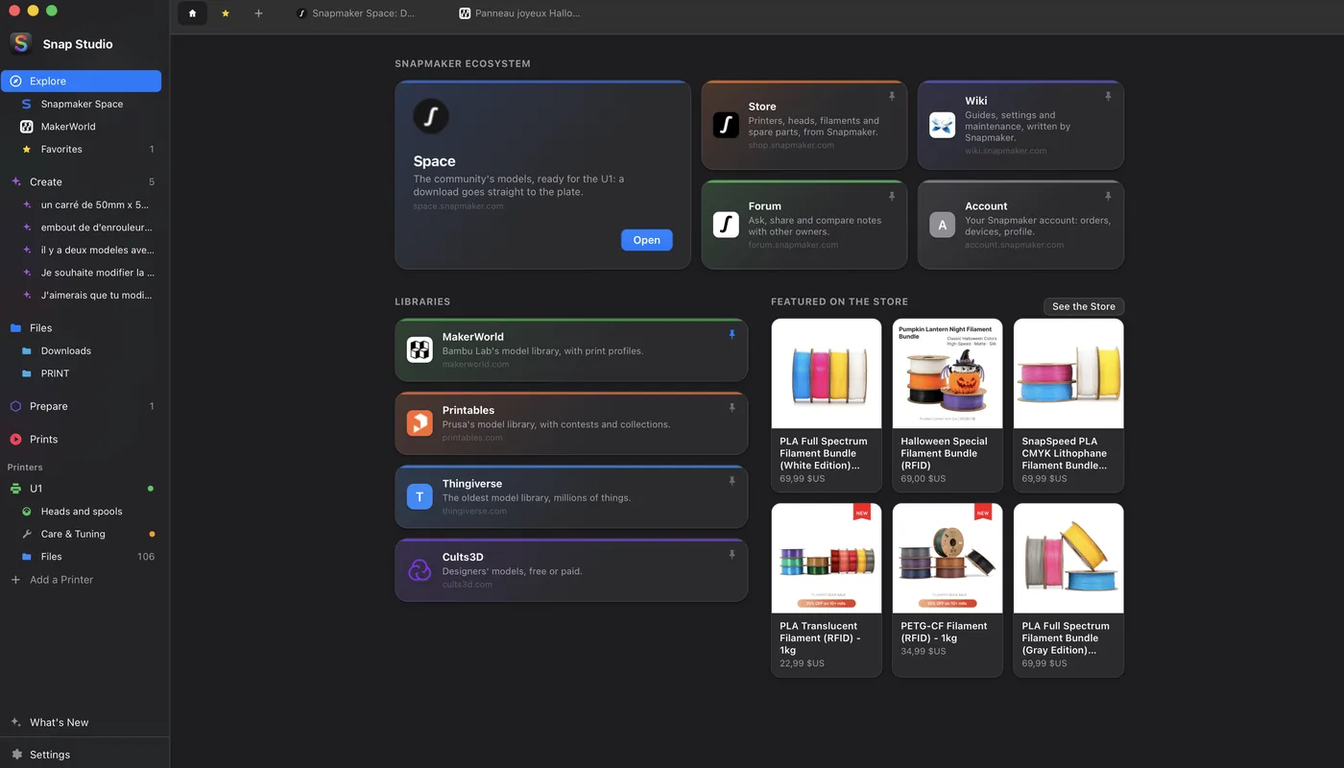
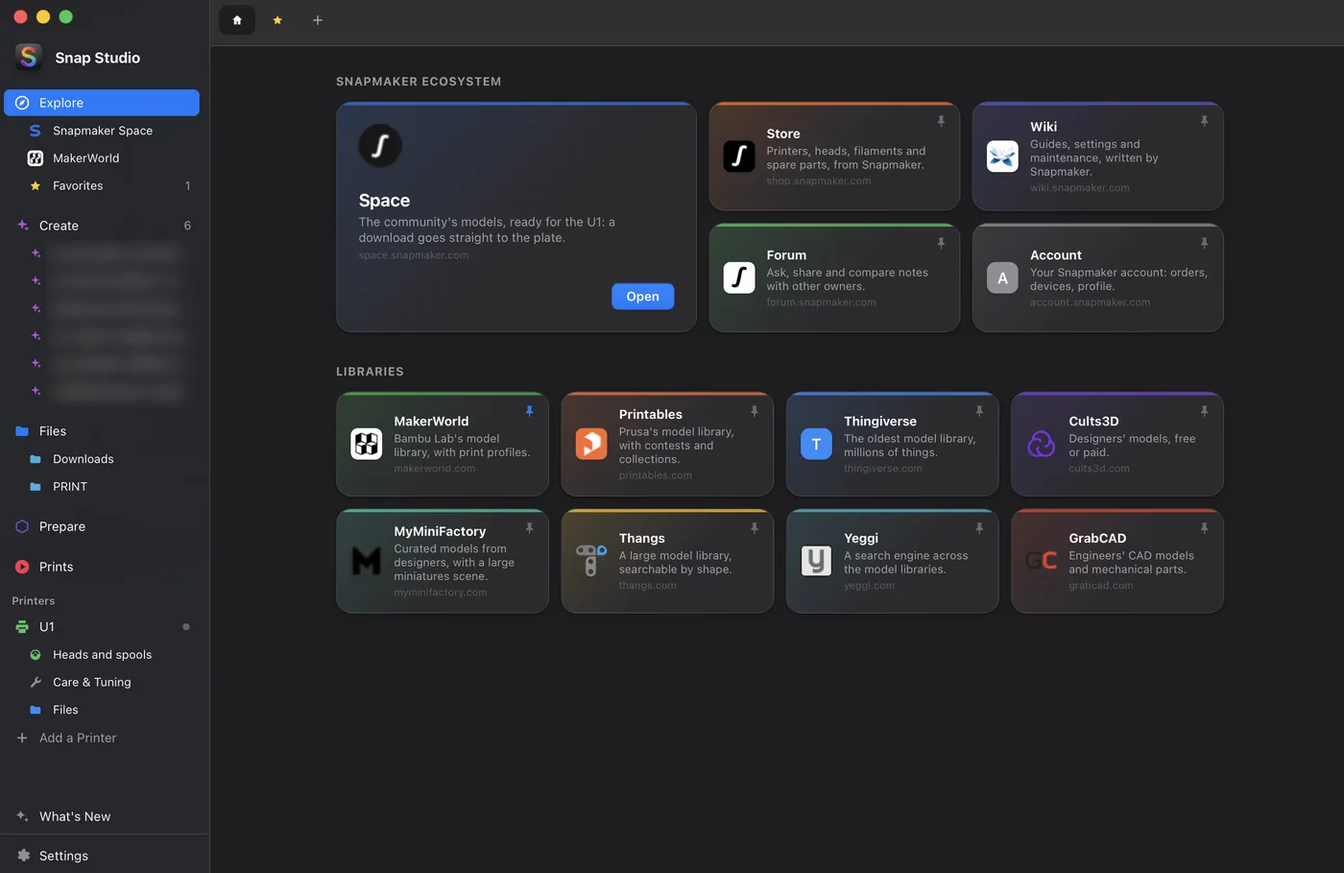
docs: Real 0.17 screenshots: Explore, Prints, G-code preview, languages
From the app (macOS, dark, English), the Create list's conversation titles
blurred and the labels on the printer's frame blurred in the camera image.

- library.png: Explore with the eight libraries and no Store block;
- print-job.png: the Prints page with a running print and its camera;
- print-history.png (new): a finished print's record (gallery only);
- gcode-preview.png (new): the G-code preview window;
- languages.png (new): Settings > Application, the language picker open.

The README gets a G-code preview section and a Languages section (English
and French). The site's gallery goes from 12 to 15 slides (finished print,
G-code preview, languages) with captions in English and French, and the
slicing card mentions the preview. In What's new, the languages feature
shows the real picker instead of the illustration, and the one camera
feature a crop of the running print's record (one-camera.webp).

diff --git a/site/index.html b/site/index.html
@@ -51,7 +51,7 @@
         <article class="feature">
           <span class="ico" aria-hidden="true">✂</span>
           <h3 data-i18n="f.slice.title">Orca-style slicing</h3>
-          <p data-i18n="f.slice.text">The Snapmaker Orca engine is downloaded once and kept up to date: no need to install Orca. Quality, infill, walls, surfaces, supports, brim and seam, with styles chosen from pictures, which you can save as your own profiles. Basic or Advanced settings. The prime tower shows on the plate in Prepare, where you place it, or one per material when materials do not bond.</p>
+          <p data-i18n="f.slice.text">The Snapmaker Orca engine is downloaded once and kept up to date: no need to install Orca. Quality, infill, walls, surfaces, supports, brim and seam, with styles chosen from pictures, which you can save as your own profiles. Basic or Advanced settings. The prime tower shows on the plate in Prepare, where you place it, or one per material when materials do not bond. Then a G-code preview, layer by layer, with the time per type and the filament, before sending.</p>
         </article>
         <article class="feature">
           <span class="ico" aria-hidden="true">🎨</span>
@@ -81,84 +81,102 @@
       <section class="gallery" id="gallery" aria-roledescription="carousel" data-i18n-roledesc="gal.role" aria-label="Snap Studio screenshots" data-i18n-aria="gal.label" tabindex="0">
         <div class="g-stage">
           <div class="g-track" aria-live="polite">
-          <figure class="g-slide is-active" role="group" aria-roledescription="slide" data-i18n-roledesc="gal.slide_role" aria-label="1 / 12" data-index="0">
+          <figure class="g-slide is-active" role="group" aria-roledescription="slide" data-i18n-roledesc="gal.slide_role" aria-label="1 / 15" data-index="0">
             <button type="button" class="g-open" data-open="0" aria-label="Open fullscreen: Your printer in 3D: click a spool, a head, the bed or the light to control it" data-cap="shots.printer" tabindex="0">
               <img src="assets/printer.webp" alt="The printer&#x27;s page: the U1 in 3D and its spools" data-i18n-alt="shots.printer_alt" width="1400" height="807">
             </button>
             <figcaption><span class="g-cap" data-i18n="shots.printer">Your printer in 3D: click a spool, a head, the bed or the light to control it</span></figcaption>
           </figure>
-          <figure class="g-slide" role="group" aria-roledescription="slide" data-i18n-roledesc="gal.slide_role" aria-label="2 / 12" data-index="1" aria-hidden="true">
+          <figure class="g-slide" role="group" aria-roledescription="slide" data-i18n-roledesc="gal.slide_role" aria-label="2 / 15" data-index="1" aria-hidden="true">
             <button type="button" class="g-open" data-open="1" aria-label="Open fullscreen: Control: move, heat, load and unload each head, fans and light, without G-code" data-cap="shots.control" tabindex="-1">
               <img src="assets/control.webp" alt="Care &amp; Tuning › Control" data-i18n-alt="shots.control_alt" width="1400" height="799">
             </button>
             <figcaption><span class="g-cap" data-i18n="shots.control">Control: move, heat, load and unload each head, fans and light, without G-code</span></figcaption>
           </figure>
-          <figure class="g-slide" role="group" aria-roledescription="slide" data-i18n-roledesc="gal.slide_role" aria-label="3 / 12" data-index="2" aria-hidden="true">
+          <figure class="g-slide" role="group" aria-roledescription="slide" data-i18n-roledesc="gal.slide_role" aria-label="3 / 15" data-index="2" aria-hidden="true">
             <button type="button" class="g-open" data-open="2" aria-label="Open fullscreen: Files: thumbnails of your 3MF files, duration, filament and plates" data-cap="shots.files" tabindex="-1">
               <img src="assets/files.webp" alt="Snap Studio — your 3MF files at a glance" data-i18n-alt="shots.files_alt" width="1400" height="801" loading="lazy">
             </button>
             <figcaption><span class="g-cap" data-i18n="shots.files">Files: thumbnails of your 3MF files, duration, filament and plates</span></figcaption>
           </figure>
-          <figure class="g-slide" role="group" aria-roledescription="slide" data-i18n-roledesc="gal.slide_role" aria-label="4 / 12" data-index="3" aria-hidden="true">
+          <figure class="g-slide" role="group" aria-roledescription="slide" data-i18n-roledesc="gal.slide_role" aria-label="4 / 15" data-index="3" aria-hidden="true">
             <button type="button" class="g-open" data-open="3" aria-label="Open fullscreen: Prepare: the U1 plate in 3D, each color sent to its head, and one prime tower per material" data-cap="shots.prepare" tabindex="-1">
               <img src="assets/prepare.webp" alt="Prepare" data-i18n-alt="shots.prepare_alt" width="1400" height="914" loading="lazy">
             </button>
             <figcaption><span class="g-cap" data-i18n="shots.prepare">Prepare: the U1 plate in 3D, each color sent to its head, and one prime tower per material</span></figcaption>
           </figure>
-          <figure class="g-slide" role="group" aria-roledescription="slide" data-i18n-roledesc="gal.slide_role" aria-label="5 / 12" data-index="4" aria-hidden="true">
+          <figure class="g-slide" role="group" aria-roledescription="slide" data-i18n-roledesc="gal.slide_role" aria-label="5 / 15" data-index="4" aria-hidden="true">
             <button type="button" class="g-open" data-open="4" aria-label="Open fullscreen: AI: Claude models a part, with a live 3D preview" data-cap="shots.ai-chat" tabindex="-1">
               <img src="assets/ai-chat.webp" alt="An AI conversation" data-i18n-alt="shots.ai-chat_alt" width="1400" height="794" loading="lazy">
             </button>
             <figcaption><span class="g-cap" data-i18n="shots.ai-chat">AI: Claude models a part, with a live 3D preview</span></figcaption>
           </figure>
-          <figure class="g-slide" role="group" aria-roledescription="slide" data-i18n-roledesc="gal.slide_role" aria-label="6 / 12" data-index="5" aria-hidden="true">
+          <figure class="g-slide" role="group" aria-roledescription="slide" data-i18n-roledesc="gal.slide_role" aria-label="6 / 15" data-index="5" aria-hidden="true">
             <button type="button" class="g-open" data-open="5" aria-label="Open fullscreen: Camera: one live camera for the app, pinned in a corner" data-cap="shots.printer-camera" tabindex="-1">
               <img src="assets/printer-camera.webp" alt="The printer&#x27;s camera" data-i18n-alt="shots.printer-camera_alt" width="1400" height="668" loading="lazy">
             </button>
             <figcaption><span class="g-cap" data-i18n="shots.printer-camera">Camera: one live camera for the app, pinned in a corner</span></figcaption>
           </figure>
-          <figure class="g-slide" role="group" aria-roledescription="slide" data-i18n-roledesc="gal.slide_role" aria-label="7 / 12" data-index="6" aria-hidden="true">
+          <figure class="g-slide" role="group" aria-roledescription="slide" data-i18n-roledesc="gal.slide_role" aria-label="7 / 15" data-index="6" aria-hidden="true">
             <button type="button" class="g-open" data-open="6" aria-label="Open fullscreen: Prints: every print by day, and its record: camera, timelapse, result" data-cap="shots.print-job" tabindex="-1">
-              <img src="assets/print-job.webp" alt="The Prints page: the list and a print&#x27;s record" data-i18n-alt="shots.print-job_alt" width="1400" height="824" loading="lazy">
+              <img src="assets/print-job.webp" alt="The Prints page: the list and a print&#x27;s record" data-i18n-alt="shots.print-job_alt" width="1400" height="909" loading="lazy">
             </button>
             <figcaption><span class="g-cap" data-i18n="shots.print-job">Prints: every print by day, and its record: camera, timelapse, result</span></figcaption>
           </figure>
-          <figure class="g-slide" role="group" aria-roledescription="slide" data-i18n-roledesc="gal.slide_role" aria-label="8 / 12" data-index="7" aria-hidden="true">
-            <button type="button" class="g-open" data-open="7" aria-label="Open fullscreen: A printer&#x27;s files: print files and timelapses, read live" data-cap="shots.printer-files" tabindex="-1">
+          <figure class="g-slide" role="group" aria-roledescription="slide" data-i18n-roledesc="gal.slide_role" aria-label="8 / 15" data-index="7" aria-hidden="true">
+            <button type="button" class="g-open" data-open="7" aria-label="Open fullscreen: Prints: a finished print, its result, filament, timeline and times" data-cap="shots.print-history" tabindex="-1">
+              <img src="assets/print-history.webp" alt="A finished print&#x27;s record in Prints" data-i18n-alt="shots.print-history_alt" width="1400" height="909" loading="lazy">
+            </button>
+            <figcaption><span class="g-cap" data-i18n="shots.print-history">Prints: a finished print, its result, filament, timeline and times</span></figcaption>
+          </figure>
+          <figure class="g-slide" role="group" aria-roledescription="slide" data-i18n-roledesc="gal.slide_role" aria-label="9 / 15" data-index="8" aria-hidden="true">
+            <button type="button" class="g-open" data-open="8" aria-label="Open fullscreen: A printer&#x27;s files: print files and timelapses, read live" data-cap="shots.printer-files" tabindex="-1">
               <img src="assets/printer-files.webp" alt="A printer&#x27;s files" data-i18n-alt="shots.printer-files_alt" width="1400" height="798" loading="lazy">
             </button>
             <figcaption><span class="g-cap" data-i18n="shots.printer-files">A printer&#x27;s files: print files and timelapses, read live</span></figcaption>
           </figure>
-          <figure class="g-slide" role="group" aria-roledescription="slide" data-i18n-roledesc="gal.slide_role" aria-label="9 / 12" data-index="8" aria-hidden="true">
-            <button type="button" class="g-open" data-open="8" aria-label="Open fullscreen: Explore home: Space, Store, Wiki, Forum, Account and eight model libraries" data-cap="shots.library" tabindex="-1">
-              <img src="assets/library.webp" alt="Explore home: Snapmaker Space, Store, Wiki, Forum, Account and eight model libraries" data-i18n-alt="shots.library_alt" width="1400" height="800" loading="lazy">
+          <figure class="g-slide" role="group" aria-roledescription="slide" data-i18n-roledesc="gal.slide_role" aria-label="10 / 15" data-index="9" aria-hidden="true">
+            <button type="button" class="g-open" data-open="9" aria-label="Open fullscreen: Explore home: Space, Store, Wiki, Forum, Account and eight model libraries" data-cap="shots.library" tabindex="-1">
+              <img src="assets/library.webp" alt="Explore home: Snapmaker Space, Store, Wiki, Forum, Account and eight model libraries" data-i18n-alt="shots.library_alt" width="1400" height="909" loading="lazy">
             </button>
             <figcaption><span class="g-cap" data-i18n="shots.library">Explore home: Space, Store, Wiki, Forum, Account and eight model libraries</span></figcaption>
           </figure>
-          <figure class="g-slide" role="group" aria-roledescription="slide" data-i18n-roledesc="gal.slide_role" aria-label="10 / 12" data-index="9" aria-hidden="true">
-            <button type="button" class="g-open" data-open="9" aria-label="Open fullscreen: Care &amp; Tuning: maintenance tasks, the heads&#x27; counters, the bed&#x27;s leveling" data-cap="shots.maintenance" tabindex="-1">
+          <figure class="g-slide" role="group" aria-roledescription="slide" data-i18n-roledesc="gal.slide_role" aria-label="11 / 15" data-index="10" aria-hidden="true">
+            <button type="button" class="g-open" data-open="10" aria-label="Open fullscreen: Care &amp; Tuning: maintenance tasks, the heads&#x27; counters, the bed&#x27;s leveling" data-cap="shots.maintenance" tabindex="-1">
               <img src="assets/maintenance.webp" alt="Care &amp; Tuning" data-i18n-alt="shots.maintenance_alt" width="1400" height="803" loading="lazy">
             </button>
             <figcaption><span class="g-cap" data-i18n="shots.maintenance">Care &amp; Tuning: maintenance tasks, the heads&#x27; counters, the bed&#x27;s leveling</span></figcaption>
           </figure>
-          <figure class="g-slide" role="group" aria-roledescription="slide" data-i18n-roledesc="gal.slide_role" aria-label="11 / 12" data-index="10" aria-hidden="true">
-            <button type="button" class="g-open" data-open="10" aria-label="Open fullscreen: Display: light or dark, ten themes and the accent color" data-cap="shots.display" tabindex="-1">
+          <figure class="g-slide" role="group" aria-roledescription="slide" data-i18n-roledesc="gal.slide_role" aria-label="12 / 15" data-index="11" aria-hidden="true">
+            <button type="button" class="g-open" data-open="11" aria-label="Open fullscreen: Display: light or dark, ten themes and the accent color" data-cap="shots.display" tabindex="-1">
               <img src="assets/display.webp" alt="Settings › Display" data-i18n-alt="shots.display_alt" width="1400" height="805" loading="lazy">
             </button>
             <figcaption><span class="g-cap" data-i18n="shots.display">Display: light or dark, ten themes and the accent color</span></figcaption>
           </figure>
-          <figure class="g-slide" role="group" aria-roledescription="slide" data-i18n-roledesc="gal.slide_role" aria-label="12 / 12" data-index="11" aria-hidden="true">
-            <button type="button" class="g-open" data-open="11" aria-label="Open fullscreen: Slicing: plate, quality, heads and spools read from the printer" data-cap="shots.slicing" tabindex="-1">
+          <figure class="g-slide" role="group" aria-roledescription="slide" data-i18n-roledesc="gal.slide_role" aria-label="13 / 15" data-index="12" aria-hidden="true">
+            <button type="button" class="g-open" data-open="12" aria-label="Open fullscreen: Slicing: plate, quality, heads and spools read from the printer" data-cap="shots.slicing" tabindex="-1">
               <img src="assets/slicing.webp" alt="The slice sheet" data-i18n-alt="shots.slicing_alt" width="937" height="869" loading="lazy">
             </button>
             <figcaption><span class="g-cap" data-i18n="shots.slicing">Slicing: plate, quality, heads and spools read from the printer</span></figcaption>
+          </figure>
+          <figure class="g-slide" role="group" aria-roledescription="slide" data-i18n-roledesc="gal.slide_role" aria-label="14 / 15" data-index="13" aria-hidden="true">
+            <button type="button" class="g-open" data-open="13" aria-label="Open fullscreen: G-code preview: layer by layer, time per type, filament, then Send to Printer" data-cap="shots.gcode-preview" tabindex="-1">
+              <img src="assets/gcode-preview.webp" alt="The G-code preview with its layer slider" data-i18n-alt="shots.gcode-preview_alt" width="1400" height="909" loading="lazy">
+            </button>
+            <figcaption><span class="g-cap" data-i18n="shots.gcode-preview">G-code preview: layer by layer, time per type, filament, then Send to Printer</span></figcaption>
+          </figure>
+          <figure class="g-slide" role="group" aria-roledescription="slide" data-i18n-roledesc="gal.slide_role" aria-label="15 / 15" data-index="14" aria-hidden="true">
+            <button type="button" class="g-open" data-open="14" aria-label="Open fullscreen: Nine languages, chosen in Settings › Application" data-cap="shots.languages" tabindex="-1">
+              <img src="assets/languages.webp" alt="The language picker in Settings › Application" data-i18n-alt="shots.languages_alt" width="1400" height="762" loading="lazy">
+            </button>
+            <figcaption><span class="g-cap" data-i18n="shots.languages">Nine languages, chosen in Settings › Application</span></figcaption>
           </figure>
           </div>
           <button type="button" class="g-nav g-prev" aria-label="Previous screenshot" data-i18n-aria="gal.prev"><svg viewBox="0 0 24 24" aria-hidden="true" focusable="false"><path d="M15 5l-7 7 7 7"/></svg></button>
           <button type="button" class="g-nav g-next" aria-label="Next screenshot" data-i18n-aria="gal.next"><svg viewBox="0 0 24 24" aria-hidden="true" focusable="false"><path d="M9 5l7 7-7 7"/></svg></button>
         </div>
         <div class="g-bar">
-          <span class="g-count" aria-hidden="true"><b id="g-cur">1</b> / 12</span>
+          <span class="g-count" aria-hidden="true"><b id="g-cur">1</b> / 15</span>
           <button type="button" class="g-play" id="g-play" aria-pressed="false" aria-label="Pause the slideshow" data-i18n-aria="gal.pause"><svg class="i-pause" viewBox="0 0 24 24" aria-hidden="true" focusable="false"><path d="M8 5v14M16 5v14"/></svg><svg class="i-play" viewBox="0 0 24 24" aria-hidden="true" focusable="false"><path d="M8 5l11 7-11 7z"/></svg></button>
         </div>
         <div class="g-thumbs" id="g-thumbs">
@@ -168,12 +186,15 @@
         <button type="button" class="g-thumb" data-go="3" aria-label="Prepare: the U1 plate in 3D, each color sent to its head, and one prime tower per material" data-cap="shots.prepare"><img src="assets/thumbs/prepare.webp" alt="" width="160" height="104" loading="lazy"></button>
         <button type="button" class="g-thumb" data-go="4" aria-label="AI: Claude models a part, with a live 3D preview" data-cap="shots.ai-chat"><img src="assets/thumbs/ai-chat.webp" alt="" width="160" height="91" loading="lazy"></button>
         <button type="button" class="g-thumb" data-go="5" aria-label="Camera: one live camera for the app, pinned in a corner" data-cap="shots.printer-camera"><img src="assets/thumbs/printer-camera.webp" alt="" width="160" height="76" loading="lazy"></button>
-        <button type="button" class="g-thumb" data-go="6" aria-label="Prints: every print by day, and its record: camera, timelapse, result" data-cap="shots.print-job"><img src="assets/thumbs/print-job.webp" alt="" width="160" height="94" loading="lazy"></button>
-        <button type="button" class="g-thumb" data-go="7" aria-label="A printer&#x27;s files: print files and timelapses, read live" data-cap="shots.printer-files"><img src="assets/thumbs/printer-files.webp" alt="" width="160" height="91" loading="lazy"></button>
-        <button type="button" class="g-thumb" data-go="8" aria-label="Explore home: Space, Store, Wiki, Forum, Account and eight model libraries" data-cap="shots.library"><img src="assets/thumbs/library.webp" alt="" width="160" height="91" loading="lazy"></button>
-        <button type="button" class="g-thumb" data-go="9" aria-label="Care &amp; Tuning: maintenance tasks, the heads&#x27; counters, the bed&#x27;s leveling" data-cap="shots.maintenance"><img src="assets/thumbs/maintenance.webp" alt="" width="160" height="92" loading="lazy"></button>
-        <button type="button" class="g-thumb" data-go="10" aria-label="Display: light or dark, ten themes and the accent color" data-cap="shots.display"><img src="assets/thumbs/display.webp" alt="" width="160" height="92" loading="lazy"></button>
-        <button type="button" class="g-thumb" data-go="11" aria-label="Slicing: plate, quality, heads and spools read from the printer" data-cap="shots.slicing"><img src="assets/thumbs/slicing.webp" alt="" width="160" height="148" loading="lazy"></button>
+        <button type="button" class="g-thumb" data-go="6" aria-label="Prints: every print by day, and its record: camera, timelapse, result" data-cap="shots.print-job"><img src="assets/thumbs/print-job.webp" alt="" width="160" height="104" loading="lazy"></button>
+        <button type="button" class="g-thumb" data-go="7" aria-label="Prints: a finished print, its result, filament, timeline and times" data-cap="shots.print-history"><img src="assets/thumbs/print-history.webp" alt="" width="160" height="104" loading="lazy"></button>
+        <button type="button" class="g-thumb" data-go="8" aria-label="A printer&#x27;s files: print files and timelapses, read live" data-cap="shots.printer-files"><img src="assets/thumbs/printer-files.webp" alt="" width="160" height="91" loading="lazy"></button>
+        <button type="button" class="g-thumb" data-go="9" aria-label="Explore home: Space, Store, Wiki, Forum, Account and eight model libraries" data-cap="shots.library"><img src="assets/thumbs/library.webp" alt="" width="160" height="104" loading="lazy"></button>
+        <button type="button" class="g-thumb" data-go="10" aria-label="Care &amp; Tuning: maintenance tasks, the heads&#x27; counters, the bed&#x27;s leveling" data-cap="shots.maintenance"><img src="assets/thumbs/maintenance.webp" alt="" width="160" height="92" loading="lazy"></button>
+        <button type="button" class="g-thumb" data-go="11" aria-label="Display: light or dark, ten themes and the accent color" data-cap="shots.display"><img src="assets/thumbs/display.webp" alt="" width="160" height="92" loading="lazy"></button>
+        <button type="button" class="g-thumb" data-go="12" aria-label="Slicing: plate, quality, heads and spools read from the printer" data-cap="shots.slicing"><img src="assets/thumbs/slicing.webp" alt="" width="160" height="148" loading="lazy"></button>
+        <button type="button" class="g-thumb" data-go="13" aria-label="G-code preview: layer by layer, time per type, filament, then Send to Printer" data-cap="shots.gcode-preview"><img src="assets/thumbs/gcode-preview.webp" alt="" width="160" height="104" loading="lazy"></button>
+        <button type="button" class="g-thumb" data-go="14" aria-label="Nine languages, chosen in Settings › Application" data-cap="shots.languages"><img src="assets/thumbs/languages.webp" alt="" width="160" height="87" loading="lazy"></button>
           <span class="g-ind" aria-hidden="true"></span>
         </div>
       </section>

diff --git a/site/i18n.js b/site/i18n.js
@@ -16,7 +16,7 @@ const STRINGS = {
     "f.u1.title": "Made for the Snapmaker U1",
     "f.u1.text": "The U1 plate, profiles and four heads are built in. Printers are found on your network and the U1 is shown in 3D: click a spool, a head, the bed or the light for its quick controls. Status and sending also work with any Klipper (Moonraker) printer.",
     "f.slice.title": "Orca-style slicing",
-    "f.slice.text": "The Snapmaker Orca engine is downloaded once and kept up to date: no need to install Orca. Quality, infill, walls, surfaces, supports, brim and seam, with styles chosen from pictures, which you can save as your own profiles. Basic or Advanced settings. The prime tower shows on the plate in Prepare, where you place it, or one per material when materials do not bond.",
+    "f.slice.text": "The Snapmaker Orca engine is downloaded once and kept up to date: no need to install Orca. Quality, infill, walls, surfaces, supports, brim and seam, with styles chosen from pictures, which you can save as your own profiles. Basic or Advanced settings. The prime tower shows on the plate in Prepare, where you place it, or one per material when materials do not bond. Then a G-code preview, layer by layer, with the time per type and the filament, before sending.",
     "f.heads.title": "Multi-color, head by head",
     "f.heads.text": "The spools loaded on the printer are read. Each color of a model, painted ones included, goes to the head you pick, and the 3D view shows the real spool colors. Virtual heads mix two spools into a new color, as Full Spectrum does.",
     "f.live.title": "Live printer monitoring",
@@ -49,12 +49,18 @@ const STRINGS = {
     "shots.printer-camera_alt": "The printer's camera",
     "shots.print-job": "Prints: every print by day, and its record: camera, timelapse, result",
     "shots.print-job_alt": "The Prints page: the list and a print's record",
+    "shots.print-history": "Prints: a finished print, its result, filament, timeline and times",
+    "shots.print-history_alt": "A finished print's record in Prints",
     "shots.library": "Explore home: Space, Store, Wiki, Forum, Account and eight model libraries",
     "shots.library_alt": "Explore home: Snapmaker Space, Store, Wiki, Forum, Account and eight model libraries",
     "shots.maintenance": "Care & Tuning: maintenance tasks, the heads' counters, the bed's leveling",
     "shots.maintenance_alt": "Care & Tuning",
     "shots.slicing": "Slicing: plate, quality, heads and spools read from the printer",
     "shots.slicing_alt": "The slice sheet",
+    "shots.gcode-preview": "G-code preview: layer by layer, time per type, filament, then Send to Printer",
+    "shots.gcode-preview_alt": "The G-code preview with its layer slider",
+    "shots.languages": "Nine languages, chosen in Settings › Application",
+    "shots.languages_alt": "The language picker in Settings › Application",
     "shots.printer-files": "A printer's files: print files and timelapses, read live",
     "shots.printer-files_alt": "A printer's files",
     "shots.control": "Control: move, heat, load and unload each head, fans and light, without G-code",
@@ -116,7 +122,7 @@ const STRINGS = {
     "f.u1.title": "Pensée pour la Snapmaker U1",
     "f.u1.text": "Le plateau, les profils et les quatre têtes de la U1 sont intégrés. Les imprimantes sont trouvées sur votre réseau et la U1 est montrée en 3D : cliquez une bobine, une tête, le plateau ou la lumière pour ses contrôles rapides. L'état et l'envoi fonctionnent aussi avec toute imprimante Klipper (Moonraker).",
     "f.slice.title": "Découpe façon Orca",
-    "f.slice.text": "Le moteur Snapmaker Orca est téléchargé une fois et tenu à jour : inutile d'installer Orca. Qualité, remplissage, parois, surfaces, supports, bordure et couture, avec des styles choisis en images, à enregistrer comme vos propres profils. Réglages Essentiel ou Avancé. La tour d'amorçage apparaît sur le plateau dans Préparer, où vous la placez, ou une par matériau quand les matériaux n'adhèrent pas.",
+    "f.slice.text": "Le moteur Snapmaker Orca est téléchargé une fois et tenu à jour : inutile d'installer Orca. Qualité, remplissage, parois, surfaces, supports, bordure et couture, avec des styles choisis en images, à enregistrer comme vos propres profils. Réglages Essentiel ou Avancé. La tour d'amorçage apparaît sur le plateau dans Préparer, où vous la placez, ou une par matériau quand les matériaux n'adhèrent pas. Puis un aperçu G-code couche par couche, avec le temps par type et le filament, avant l'envoi.",
     "f.heads.title": "Multicolore, tête par tête",
     "f.heads.text": "Les bobines chargées sur l'imprimante sont lues. Chaque couleur d'un modèle, peintes comprises, va à la tête choisie, et la vue 3D montre les vraies couleurs des bobines. Les têtes virtuelles mélangent deux bobines en une nouvelle couleur, comme le Full Spectrum.",
     "f.live.title": "Suivi de l'imprimante en direct",
@@ -149,12 +155,18 @@ const STRINGS = {
     "shots.printer-camera_alt": "La caméra de l'imprimante",
     "shots.print-job": "Impressions : chaque impression jour par jour, et sa fiche : caméra, timelapse, résultat",
     "shots.print-job_alt": "La page Impressions : la liste et la fiche d'une impression",
+    "shots.print-history": "Impressions : une impression terminée, son résultat, le filament, la chronologie et les temps",
+    "shots.print-history_alt": "La fiche d'une impression terminée dans Impressions",
     "shots.library": "Accueil Explorer : Space, Store, Wiki, Forum, Compte et huit bibliothèques de modèles",
     "shots.library_alt": "Accueil Explorer : Snapmaker Space, Store, Wiki, Forum, Compte et huit bibliothèques de modèles",
     "shots.maintenance": "Entretien et réglages : entretiens, compteurs des têtes, nivellement du plateau",
     "shots.maintenance_alt": "Entretien et réglages",
     "shots.slicing": "Découpe : plateau, qualité, têtes et bobines lues sur l'imprimante",
     "shots.slicing_alt": "La fenêtre de découpe",
+    "shots.gcode-preview": "Aperçu G-code : couche par couche, temps par type, filament, puis Envoyer à l'imprimante",
+    "shots.gcode-preview_alt": "L'aperçu G-code et son curseur de couches",
+    "shots.languages": "Neuf langues, au choix dans Réglages › Application",
+    "shots.languages_alt": "Le choix de la langue dans Réglages › Application",
     "shots.printer-files": "Fichiers de l'imprimante : fichiers d'impression et timelapses, lus en direct",
     "shots.printer-files_alt": "Les fichiers d'une imprimante",
     "shots.control": "Contrôle : déplacer, chauffer, charger et décharger chaque tête, ventilateurs et lumière, sans G-code",

diff --git a/README.fr.md b/README.fr.md
@@ -46,12 +46,12 @@
 [Fichiers](#-fichiers) · [Préparer](#-préparer) ·
 [Mélange de couleurs](#-mélange-de-couleurs) ·
 [Une tour par matériau](#-une-tour-par-matériau) · [Créer](#-créer) ·
-[Découpe](#-découpe) · [Vérification des bobines](#-vérification-des-bobines) ·
+[Découpe](#-découpe) · [Aperçu G-code](#-aperçu-g-code) · [Vérification des bobines](#-vérification-des-bobines) ·
 [Impressions](#-impressions) · [Caméra](#-caméra)<br>
 **Votre imprimante :** [Vue 3D](#-votre-imprimante-en-3d) ·
 [Contrôle](#-contrôle) · [Entretien](#-entretien) · [Nivellement](#-nivellement) ·
-[Fichiers de l'imprimante](#-fichiers-et-timelapses-de-limprimante) · et
-l'[Affichage](#-affichage)
+[Fichiers de l'imprimante](#-fichiers-et-timelapses-de-limprimante) ·
+l'[Affichage](#-affichage) et les [Langues](#-langues)
 
 ### 🧭 Explorer
 
@@ -180,7 +180,7 @@ Le moteur Snapmaker Orca, intégré : inutile d'installer Snapmaker Orca.
 - Qualité, remplissage, parois, surfaces et plus, avec des styles (supports,
   bordure, couture, motifs) choisis en images.
 - Une barre de progression qui suit le travail du moteur, étape par étape.
-- Un aperçu des trajectoires, puis l'envoi à l'imprimante ou un G-code
+- Un [aperçu des trajectoires](#-aperçu-g-code), puis l'envoi à l'imprimante ou un G-code
   enregistré.
 
 <details>
@@ -221,6 +221,21 @@ l'imprimante — avec son image sur l'écran de l'imprimante — ou enregistré 
 G-code.
 
 </details>
+
+<br clear="both">
+
+### 🔍 Aperçu G-code
+
+<img align="left" width="48%" hspace="12" src="docs/screenshots/gcode-preview.png" alt="L'aperçu G-code : les trajectoires, le curseur de couches, la répartition du temps et le filament" />
+
+Ce que l'imprimante va faire, avant qu'elle le fasse.
+
+- Les trajectoires en 3D, par matière, type de trajectoire ou filament ; un
+  curseur pour avancer couche par couche.
+- La durée estimée, sa répartition par type (parois, remplissage, surfaces,
+  déplacements) et le filament par tête, avec son coût.
+- Puis **Envoyer à l'imprimante**, **Enregistrer le G-code** ou retour aux
+  réglages.
 
 <br clear="both">
 
@@ -486,6 +501,20 @@ Tahoe, en verre). Avec les couleurs adaptées au daltonisme, les états ne se
 distinguent jamais par le seul rouge / vert.
 
 </details>
+
+<br clear="both">
+
+### 🌍 Langues
+
+<img align="right" width="48%" hspace="12" src="docs/screenshots/languages.png" alt="Réglages › Application : le choix de la langue avec les neuf langues" />
+
+Réglages → Application : neuf langues, avec leur drapeau et une recherche.
+
+- Français, anglais, allemand, espagnol, portugais du Brésil, italien,
+  japonais, chinois simplifié et coréen.
+- Toute l'interface, les menus et les réglages d'Orca ; les dates et les
+  nombres suivent la langue.
+- Une nouvelle installation démarre dans la langue du système.
 
 <br clear="both">
 

diff --git a/README.md b/README.md
@@ -41,11 +41,11 @@
 
 **From file to print:** [Explore](#-explore) · [Files](#-files) ·
 [Prepare](#-prepare) · [Color mixing](#-color-mixing) ·
-[One tower per material](#-one-tower-per-material) · [Create](#-create) · [Slicing](#-slicing) ·
+[One tower per material](#-one-tower-per-material) · [Create](#-create) · [Slicing](#-slicing) · [G-code preview](#-g-code-preview) ·
 [Spool check](#-spool-check) · [Prints](#-prints) · [Camera](#-camera)<br>
 **Your printer:** [3D view](#-your-printer-in-3d) · [Control](#-control) ·
 [Care](#-care) · [Bed Leveling](#-bed-leveling) ·
-[Printer files](#-printer-files-and-timelapses) · and the [Display](#-display)
+[Printer files](#-printer-files-and-timelapses) · the [Display](#-display) and [Languages](#-languages)
 
 ### 🧭 Explore
 
@@ -158,7 +158,7 @@ The Snapmaker Orca engine, built in: you do not need Snapmaker Orca installed.
 - Quality, infill, walls, surfaces and more, with styles (supports, brim,
   seam, patterns) chosen from pictures.
 - A progress bar that follows the engine's work, stage by stage.
-- A toolpath preview, then sent to the printer or saved as G-code.
+- A [toolpath preview](#-g-code-preview), then sent to the printer or saved as G-code.
 
 <details>
 <summary>More details</summary>
@@ -194,6 +194,20 @@ Then a toolpath preview with duration, filament and cost, sent to the
 printer — with its picture on the printer's screen — or saved as G-code.
 
 </details>
+
+<br clear="both">
+
+### 🔍 G-code preview
+
+<img align="left" width="48%" hspace="12" src="docs/screenshots/gcode-preview.png" alt="The G-code preview: the toolpaths, the layer slider, the time breakdown and the filament" />
+
+What the printer will do, before it does it.
+
+- The toolpaths in 3D, by material, path type or filament; a slider to go
+  layer by layer.
+- The estimated time, its breakdown by type (walls, infill, surfaces,
+  travel) and the filament per head, with its cost.
+- Then **Send to Printer**, **Save G-code** or back to the settings.
 
 <br clear="both">
 
@@ -438,6 +452,20 @@ color of the spool on T0) and macOS (a Tahoe-style layout in glass). With
 color-blind safe colors, states are never told apart by red and green alone.
 
 </details>
+
+<br clear="both">
+
+### 🌍 Languages
+
+<img align="right" width="48%" hspace="12" src="docs/screenshots/languages.png" alt="Settings › Application: the language picker with the nine languages" />
+
+Settings → Application: nine languages, with their flags and a search.
+
+- English, French, German, Spanish, Brazilian Portuguese, Italian,
+  Japanese, Simplified Chinese and Korean.
+- The whole interface, the menus and Orca's settings; dates and numbers
+  follow the language.
+- A fresh install starts in the system's language.
 
 <br clear="both">
 
